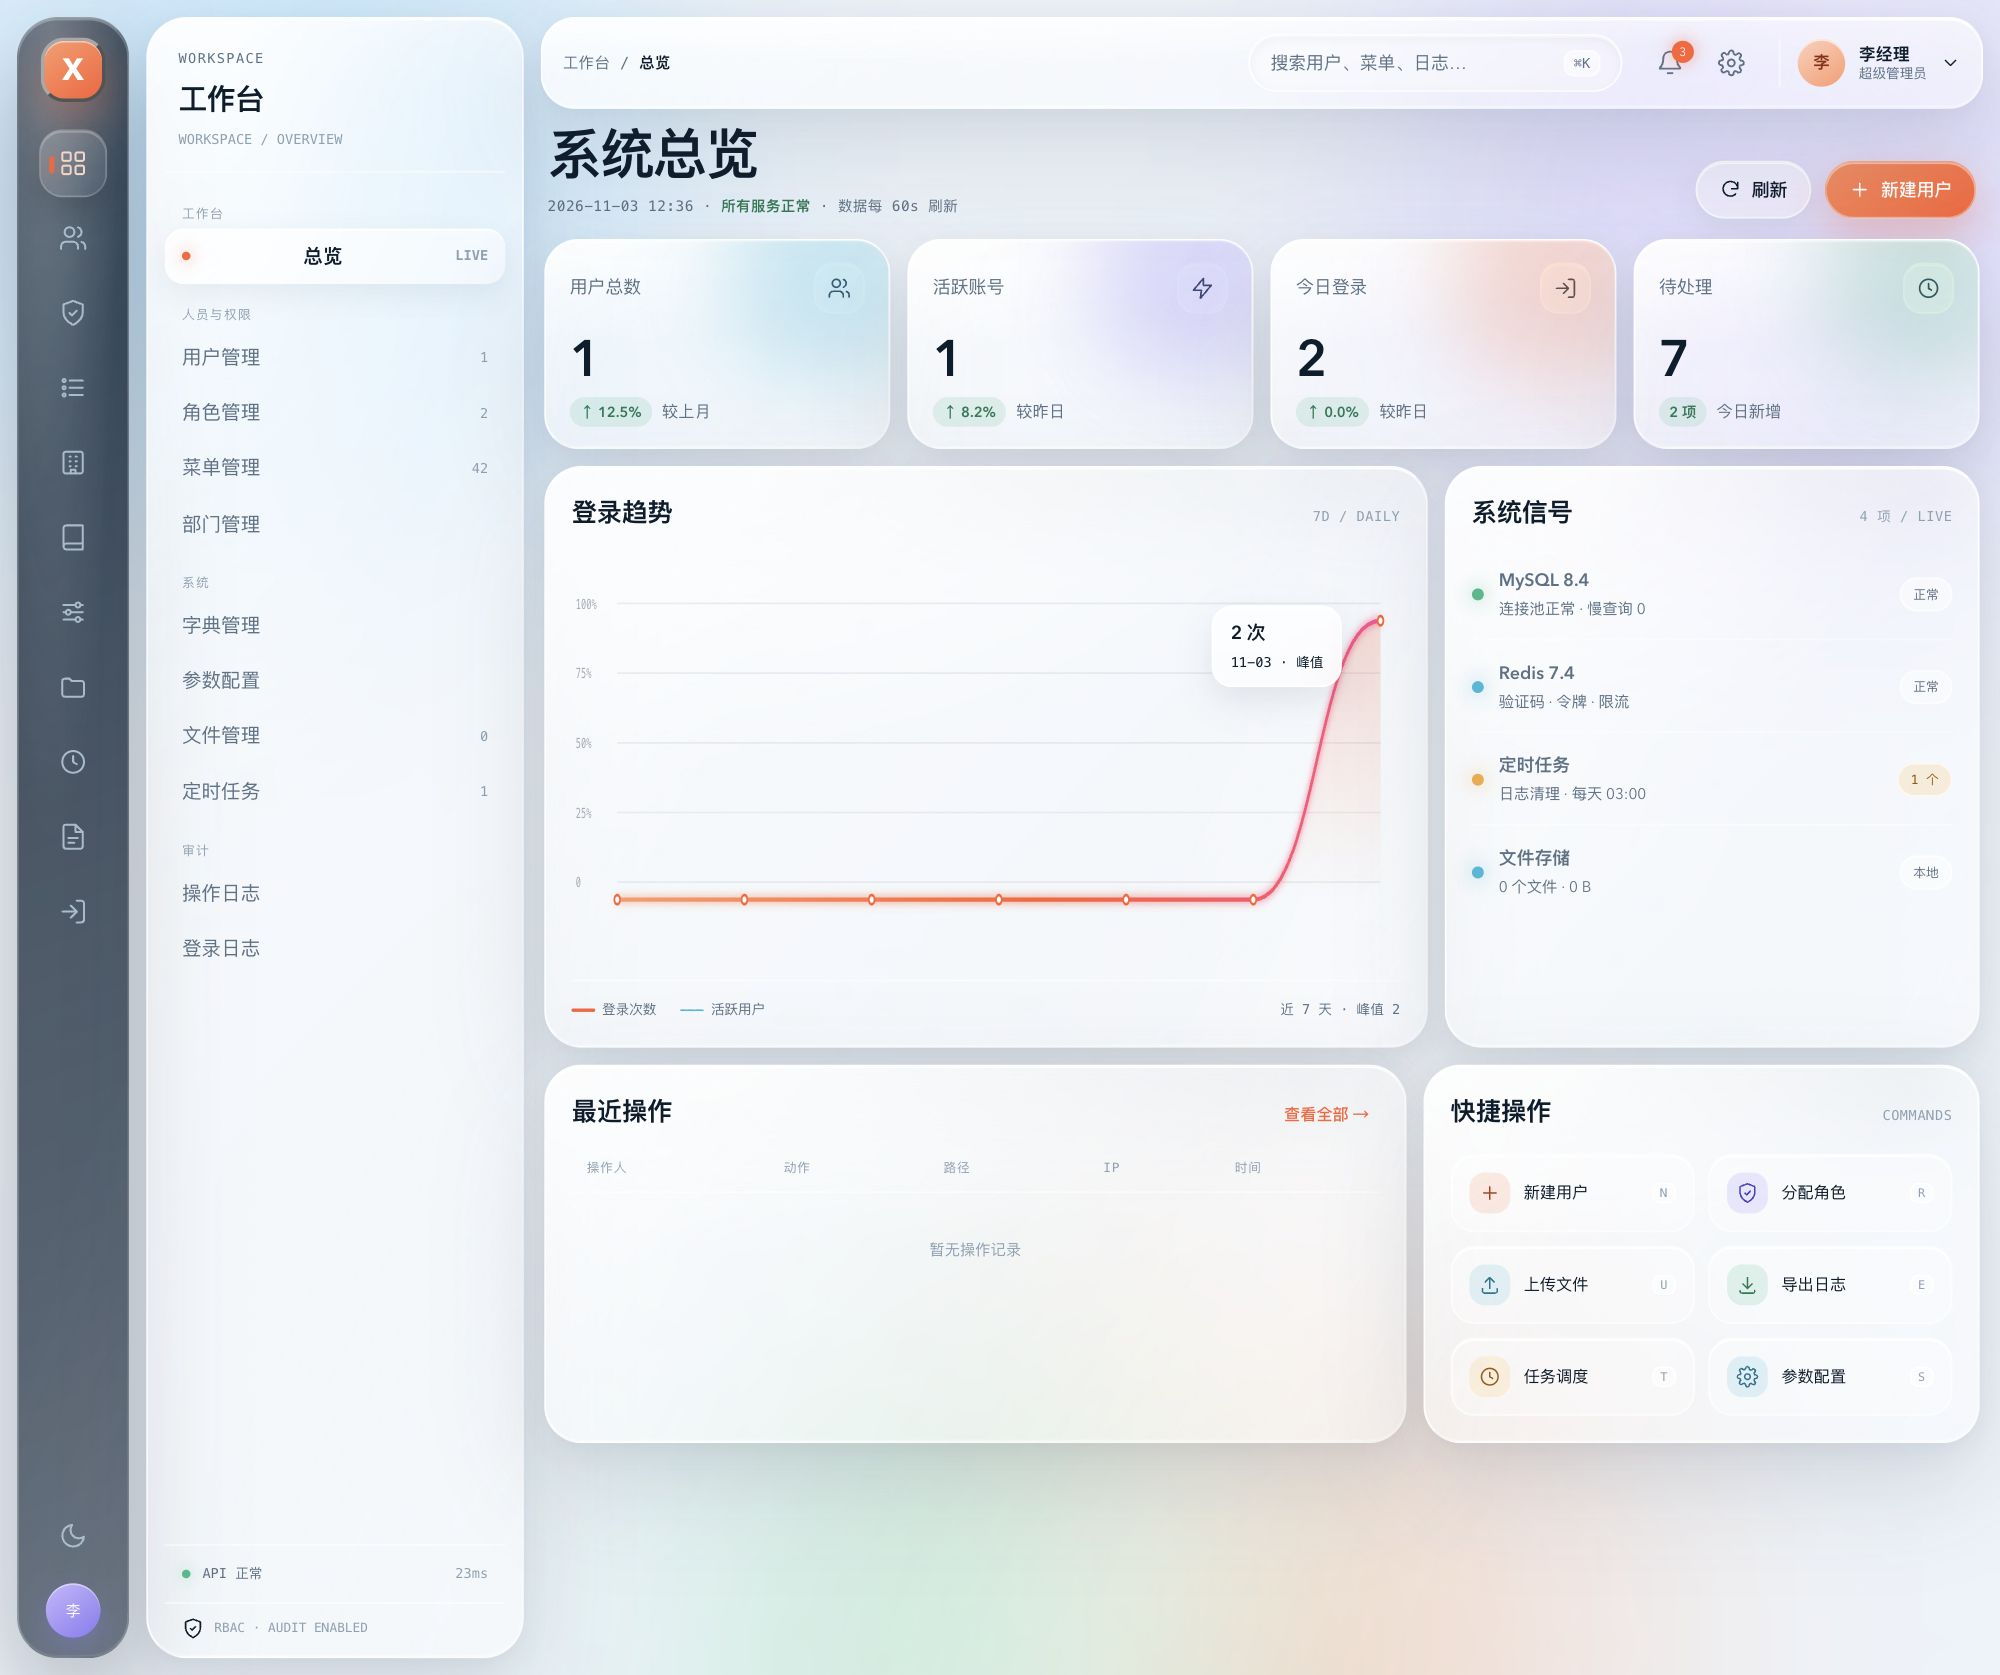
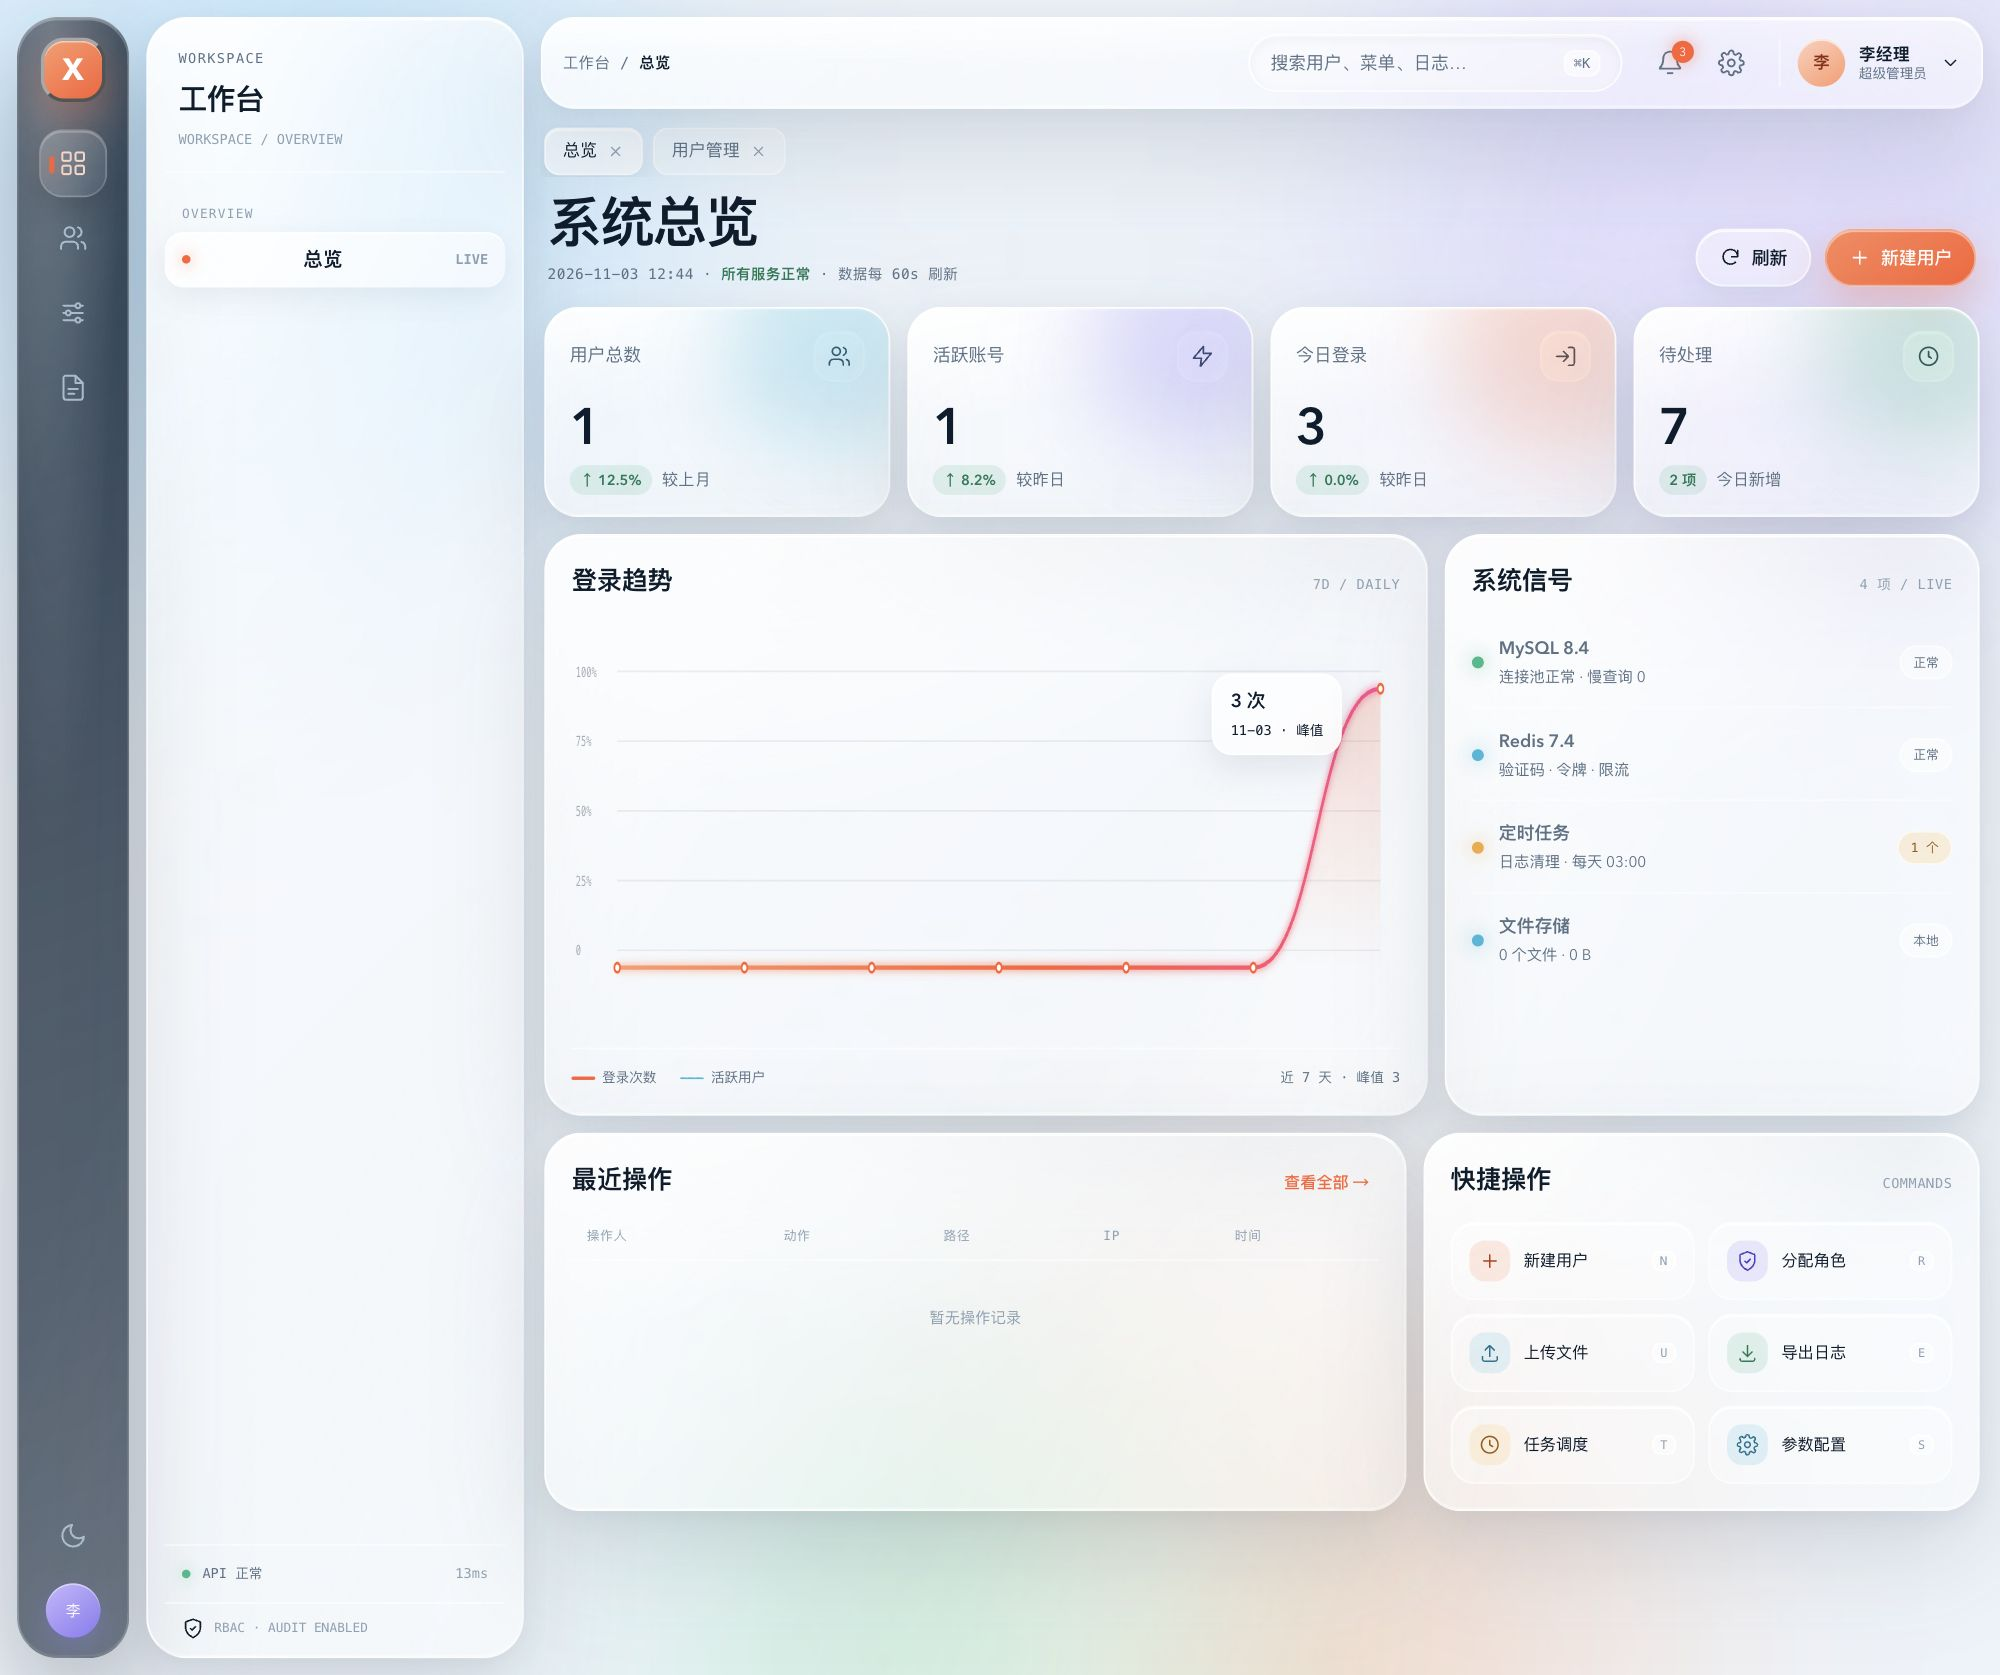
fix(ui): make rail first-level modules and context bar second-level pages

diff --git a/frontend/src/components/layout/ContextBar.tsx b/frontend/src/components/layout/ContextBar.tsx
@@ -1,6 +1,6 @@
 import { useQuery } from '@tanstack/react-query'
 import { useLocation, useNavigate } from 'react-router-dom'
-import { contextGroups, navByPath, navItems } from '../../config/nav'
+import { itemsOfGroup, navByPath, profileNav, railGroups } from '../../config/nav'
 import { api, isMock } from '../../api/client'
 import type { DashboardSummary } from '../../api/types'
 import { useAuth } from '../../stores/auth'
@@ -11,6 +11,15 @@ export function ContextBar() {
   const location = useLocation()
   const can = useAuth((state) => state.can)
   const activeItem = navByPath(location.pathname)
+  const moduleMeta = railGroups.find((module) => module.group === activeItem.group)
+  const isAccount = activeItem.group === '账号'
+  const items = isAccount ? [profileNav] : itemsOfGroup(activeItem.group).filter((item) => can(item.permission))
+  const title = isAccount ? '个人中心' : activeItem.group
+  const subtitle = isAccount
+    ? 'WORKSPACE / ACCOUNT'
+    : activeItem.group === '工作台'
+      ? 'WORKSPACE / OVERVIEW'
+      : `LEVEL 1 / ${moduleMeta?.key.toUpperCase() ?? 'MODULE'}`
 
   const summary = useQuery({
     queryKey: ['dashboard-summary'],
@@ -45,33 +54,25 @@ export function ContextBar() {
     <aside className="context glass">
       <div className="ctx-head">
         <div className="ctx-kicker">Workspace</div>
-        <strong>{activeItem.group === '工作台' ? '工作台' : activeItem.group === '账号' ? '个人中心' : '系统管理'}</strong>
-        <span className="ctx-sub">{activeItem.group === '工作台' ? 'WORKSPACE / OVERVIEW' : activeItem.group === '账号' ? 'WORKSPACE / ACCOUNT' : 'WORKSPACE / SYS-01'}</span>
+        <strong>{title}</strong>
+        <span className="ctx-sub">{subtitle}</span>
       </div>
       <nav className="ctx-nav">
-        {contextGroups.map((group) => {
-          const items = navItems.filter((item) => item.group === group && can(item.permission))
-          if (items.length === 0) return null
-          return (
-            <div key={group}>
-              <div className="ctx-label">{group}</div>
-              {items.map((item) => (
-                <a
-                  key={item.key}
-                  href={item.path}
-                  className={`ctx-item ${activeItem.key === item.key ? 'active' : ''}`}
-                  onClick={(event) => {
-                    event.preventDefault()
-                    navigate(item.path)
-                  }}
-                >
-                  <span>{item.label}</span>
-                  <span className="count">{counts[item.key] ?? ''}</span>
-                </a>
-              ))}
-            </div>
-          )
-        })}
+        <div className="ctx-label">{activeItem.group === '工作台' ? 'OVERVIEW' : 'MODULES'}</div>
+        {items.map((item) => (
+          <a
+            key={item.key}
+            href={item.path}
+            className={`ctx-item ${activeItem.key === item.key ? 'active' : ''}`}
+            onClick={(event) => {
+              event.preventDefault()
+              navigate(item.path)
+            }}
+          >
+            <span>{item.label}</span>
+            <span className="count">{counts[item.key] ?? ''}</span>
+          </a>
+        ))}
       </nav>
       <div className="ctx-foot">
         <span className={`dot ${health.isError ? 'bad' : ''}`} />

diff --git a/frontend/src/components/layout/Rail.tsx b/frontend/src/components/layout/Rail.tsx
@@ -1,7 +1,7 @@
 import { Dropdown } from 'antd'
 import type { MenuProps } from 'antd'
 import { useLocation, useNavigate } from 'react-router-dom'
-import { navItems } from '../../config/nav'
+import { navByPath, navItems, railGroups } from '../../config/nav'
 import { useAuth } from '../../stores/auth'
 import { useTabs } from '../../stores/tabs'
 import { useUi } from '../../stores/ui'
@@ -17,8 +17,13 @@ export function Rail() {
   const theme = useUi((state) => state.theme)
   const toggleTheme = useUi((state) => state.toggleTheme)
 
-  const items = navItems.filter((item) => can(item.permission))
-  const active = (path: string) => location.pathname === path || location.pathname.startsWith(`${path}/`)
+  const currentGroup = navByPath(location.pathname).group
+  const modules = railGroups
+    .map((module) => ({
+      ...module,
+      first: navItems.find((item) => item.group === module.group && can(item.permission)),
+    }))
+    .filter((module) => module.first)
 
   const userMenu: MenuProps['items'] = [
     { key: 'profile', icon: <Icon name="user" size={14} />, label: '个人中心' },
@@ -31,15 +36,15 @@ export function Rail() {
       <button className="rail-logo" type="button" onClick={() => navigate('/dashboard')} title="x-admin">
         X
       </button>
-      {items.map((item) => (
+      {modules.map((module) => (
         <button
-          key={item.key}
+          key={module.key}
           type="button"
-          className={`rail-btn ${active(item.path) ? 'active' : ''}`}
-          title={item.label}
-          onClick={() => navigate(item.path)}
+          className={`rail-btn ${currentGroup === module.group ? 'active' : ''}`}
+          title={module.label}
+          onClick={() => module.first && navigate(module.first.path)}
         >
-          <Icon name={item.icon} size={17} />
+          <Icon name={module.icon} size={17} />
         </button>
       ))}
       <div className="rail-spacer" />

diff --git a/frontend/src/config/nav.ts b/frontend/src/config/nav.ts
@@ -21,7 +21,23 @@ export const navItems: NavItem[] = [
   { key: 'logins', label: '登录日志', path: '/system/logs/logins', icon: 'login', permission: 'system:log:login', group: '审计' },
 ]
 
-export const contextGroups = ['工作台', '人员与权限', '系统', '审计']
+export interface RailGroup {
+  key: string
+  label: string
+  icon: string
+  group: string
+}
+
+export const railGroups: RailGroup[] = [
+  { key: 'workspace', label: '工作台', icon: 'grid', group: '工作台' },
+  { key: 'people', label: '人员与权限', icon: 'users', group: '人员与权限' },
+  { key: 'system', label: '系统', icon: 'sliders', group: '系统' },
+  { key: 'audit', label: '审计', icon: 'file', group: '审计' },
+]
+
+export function itemsOfGroup(group: string): NavItem[] {
+  return navItems.filter((item) => item.group === group)
+}
 
 export const quickActions = [
   { label: '新建用户', path: '/system/users?new=1', icon: 'plus', hint: 'N' },

diff --git a/README.md b/README.md
@@ -142,6 +142,7 @@ make lint               # go vet + oxlint
 
 ![登录](docs/screenshots/login.jpg)
 ![看板](docs/screenshots/dashboard.jpg)
+![两级导航](docs/screenshots/users.jpg)
 ![深色模式](docs/screenshots/profile-dark.jpg)
 
 视觉样张保留在 `design-preview/`，实现以 `frontend/src/styles/global.css` 为准：
